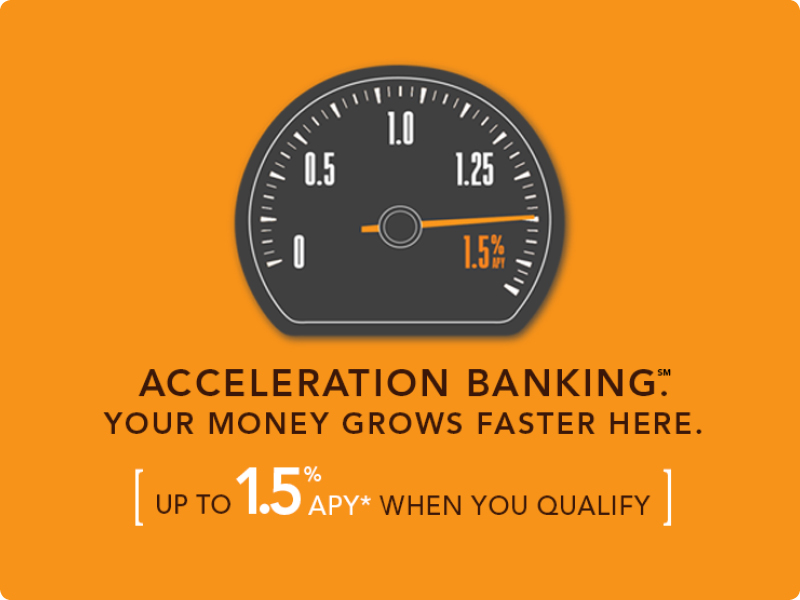
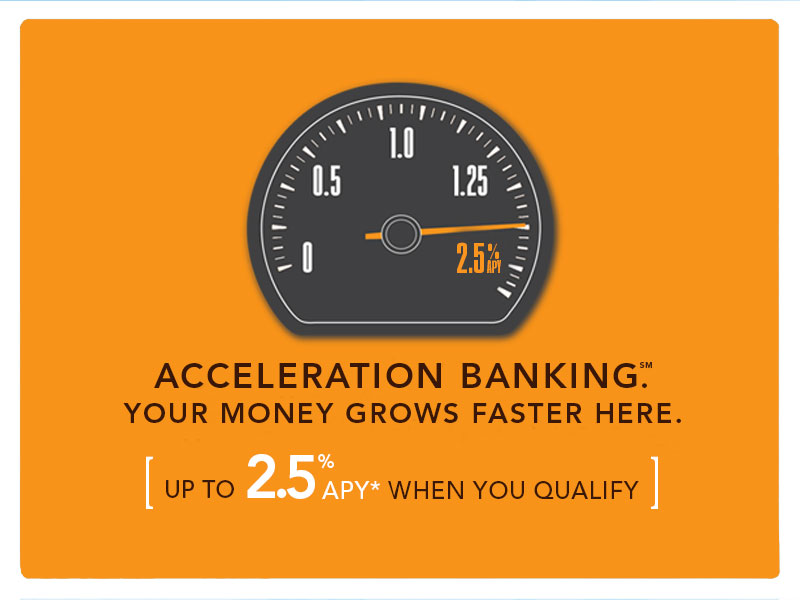
updated images and disclosure for acceleration rate change

diff --git a/acceleration.html b/acceleration.html
@@ -15,7 +15,7 @@
         <meta name="apple-itunes-app" content="app-id=656267239">
 
     <!--#include virtual="header.html" -->
-    
+
         <main role="main">
           <div class="container">
             <div class="row">
@@ -71,7 +71,7 @@
             </div><!-- row -->
 
             <div class="row spacer">
-            	<p>*Annual Percentage Yield accurate as of 8/1/14. Variable rate accounts and interest rates are subject to change. Fees may reduce earnings. Accounts closed within 6 months of opening date are subject to a $25.00 closing fee. Limit one Acceleration Checking and Acceleration Savings account per primary social security number. Acceleration Checking: Minimum balance to open account $100. Customer must initiate set up of e-statements through online banking, establish a monthly direct deposit and perform 12 debit card purchases each month to qualify and receive tiered rates and ATM surcharge refunds up to $12. Transactions may take one or more business days from the date transaction was made to post and clear the account. Checking account balances of $0.00-$10,000.00 (1.51% APY); $10,000.01 and above (.25% APY). If qualifications are not met, all funds in checking account earn .05% APY. If Acceleration Savings is also opened, interest earned on Acceleration Checking is automatically transferred to Acceleration Savings and then compounds at Acceleration Savings rates. Acceleration Savings: Account can only be opened in conjunction with Acceleration Checking Account. Savings account balances of $0.00-$10,000.00 (.50% APY); $10,000.01 and above (.25% APY). If qualifications of Acceleration Checking account are not met during the month, all funds in savings account earn .05% APY.</p>
+            	<p>*Annual Percentage Yield accurate as of 8/1/16. Variable rate accounts and interest rates are subject to change. Fees may reduce earnings. Accounts closed within 6 months of opening date are subject to a $25.00 closing fee. Limit one Acceleration Checking and Acceleration Savings account per primary social security number. Acceleration Checking: Minimum balance to open account $100. Customer must initiate set up of e-statements through online banking, establish a monthly direct deposit and perform 12 debit card purchases each month to qualify and receive tiered rates and ATM surcharge refunds up to $12. Transactions may take one or more business days from the date transaction was made to post and clear the account. Checking account balances of $0.00-$10,000.00 (2.50% APY); $10,000.01 and above (.25% APY). If qualifications are not met, all funds in checking account earn .05% APY. If Acceleration Savings is also opened, interest earned on Acceleration Checking is automatically transferred to Acceleration Savings and then compounds at Acceleration Savings rates. Acceleration Savings: Account can only be opened in conjunction with Acceleration Checking Account. Savings account balances of $0.00-$10,000.00 (.50% APY); $10,000.01 and above (.25% APY). If qualifications of Acceleration Checking account are not met during the month, all funds in savings account earn .05% APY.</p>
             </div><!-- row -->
           </div>
         </main>
